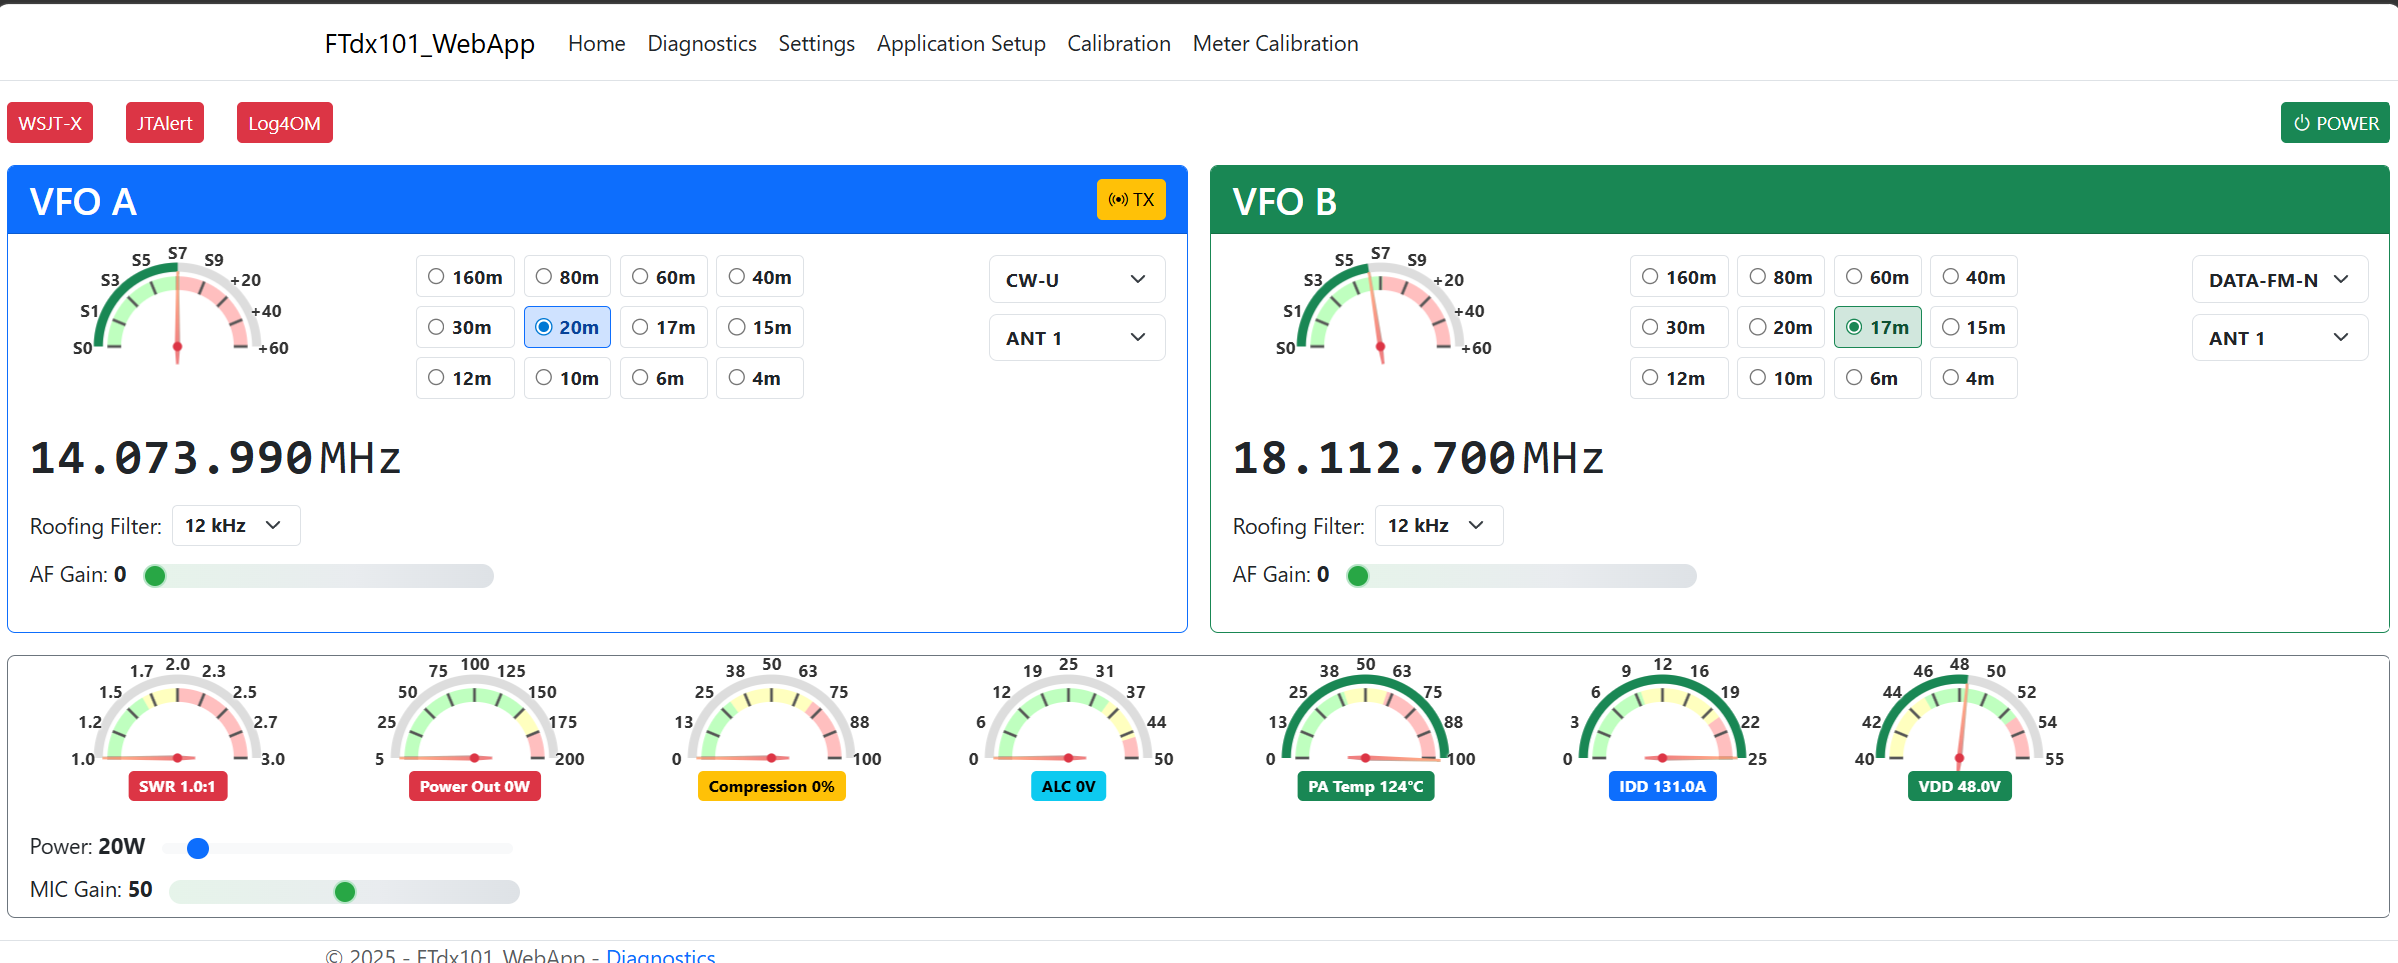
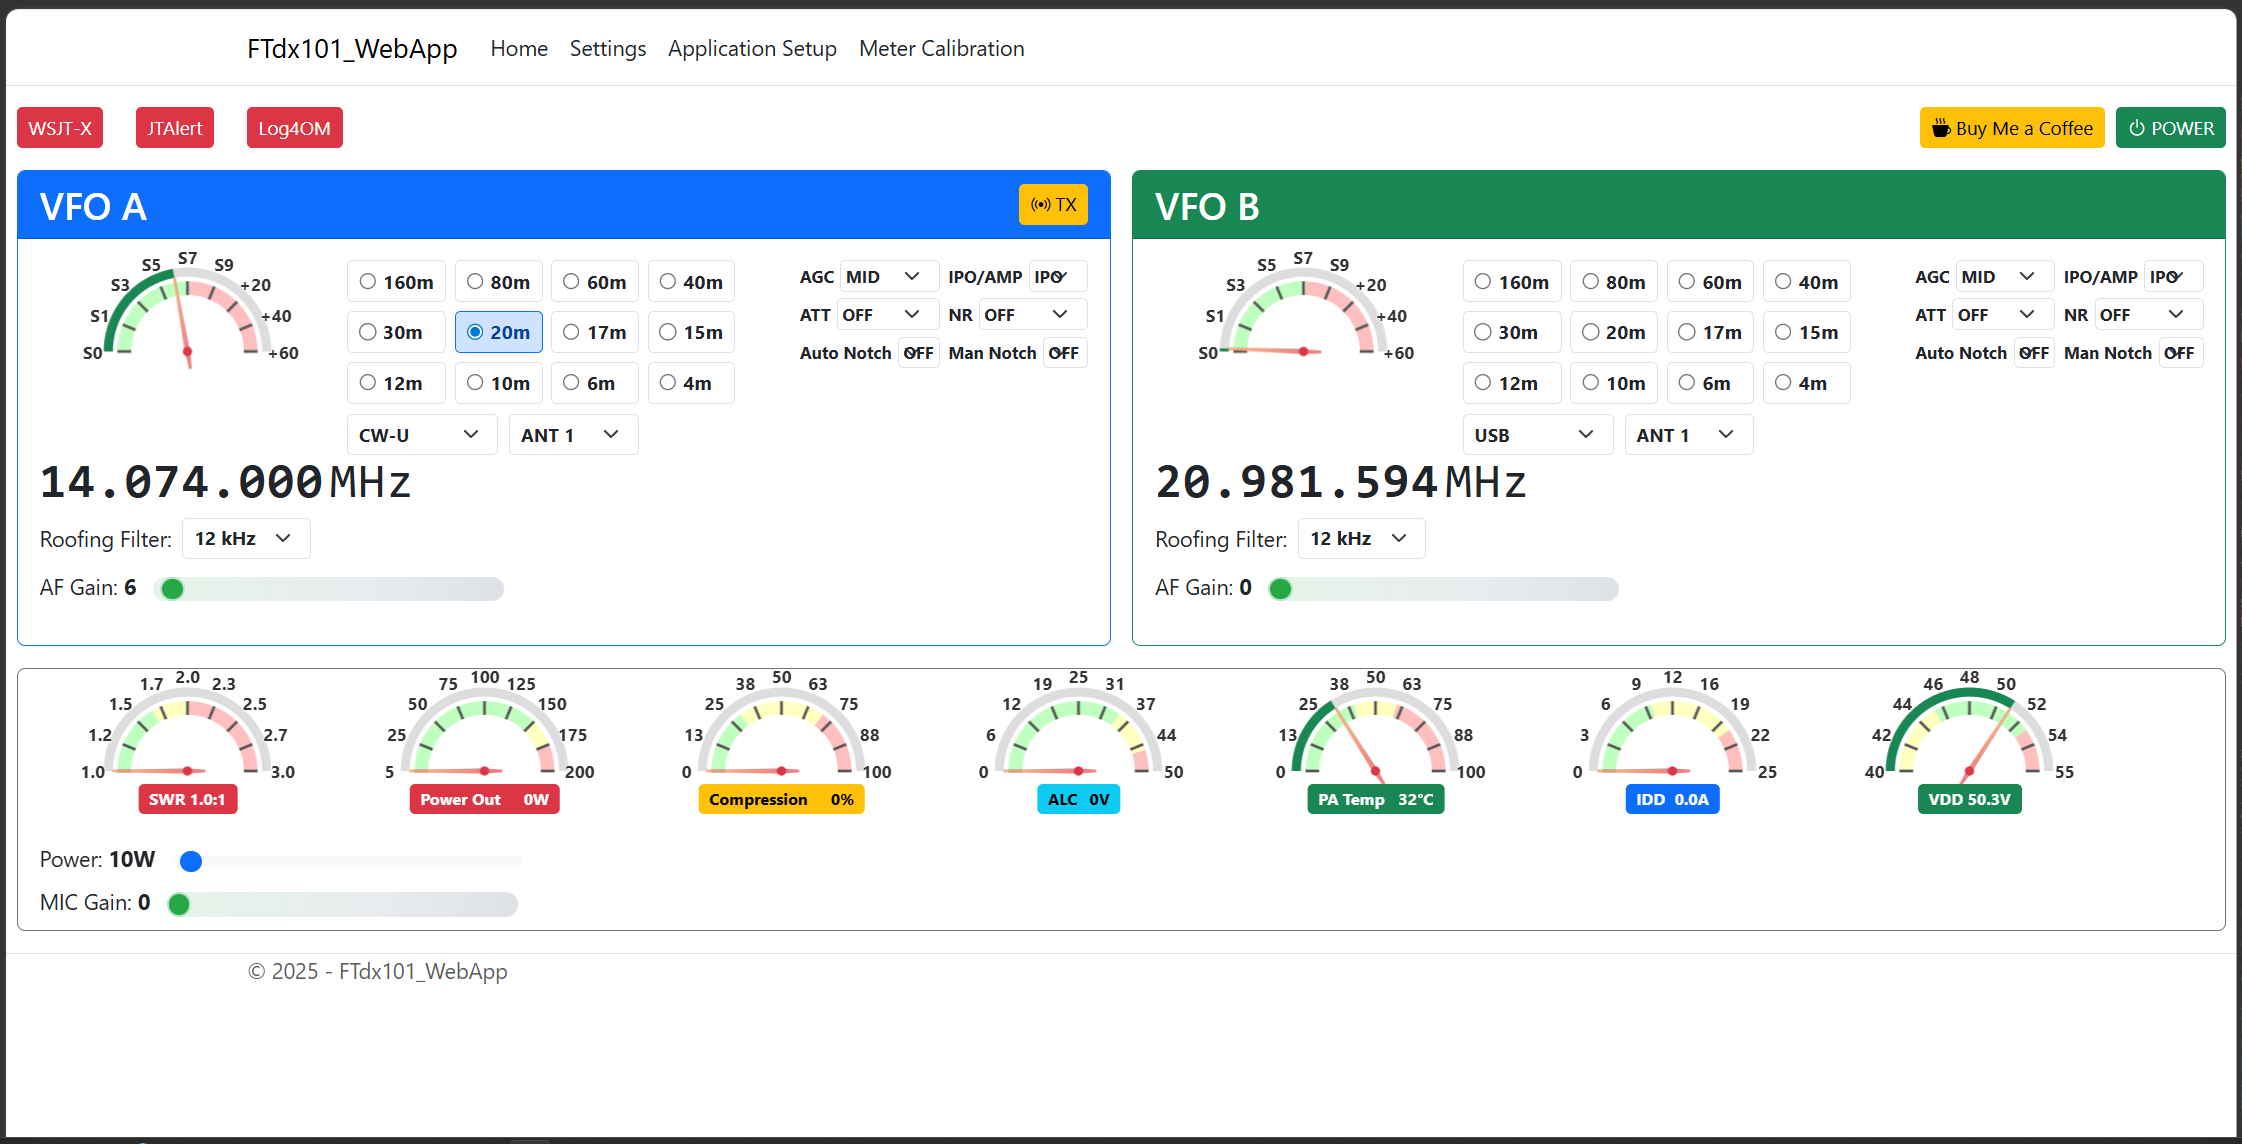
Pre-release: pending changes for v0.7.6

Changed region(s): [[0.0, 0.0, 1.0, 1.0], [0.9054, 0.3427, 0.9367, 0.3738], [0.4059, 0.3427, 0.4371, 0.3738]]

diff --git a/README.md b/README.md
@@ -50,12 +50,11 @@ If this project has helped you, please consider sponsoring it. Even small contri
 
 ## Release Notes
 
-## 2026-04-06 - v0.7.5
+## 2026-04-06 - v0.7.6
 
 ### Changed
 
-- AGC etc added.This is before moving Freq down and shifting Bands accross
-
+- Updated main page screenshot to reflect new VFO controls layout.
 
 ## 2026-04-06 - v0.7.5
 
